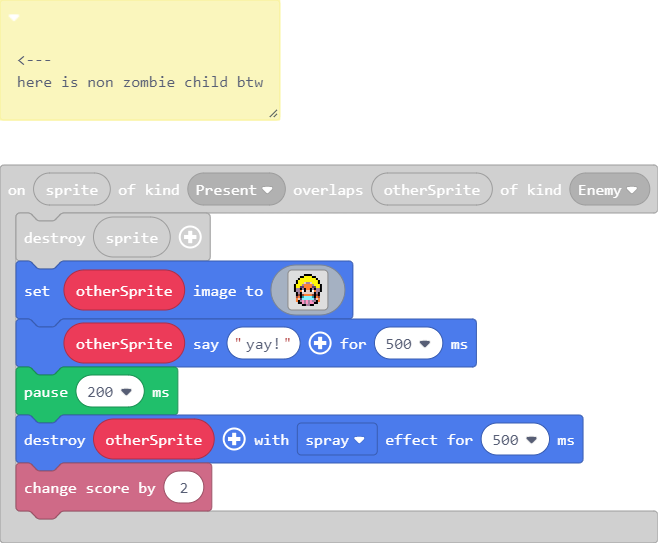
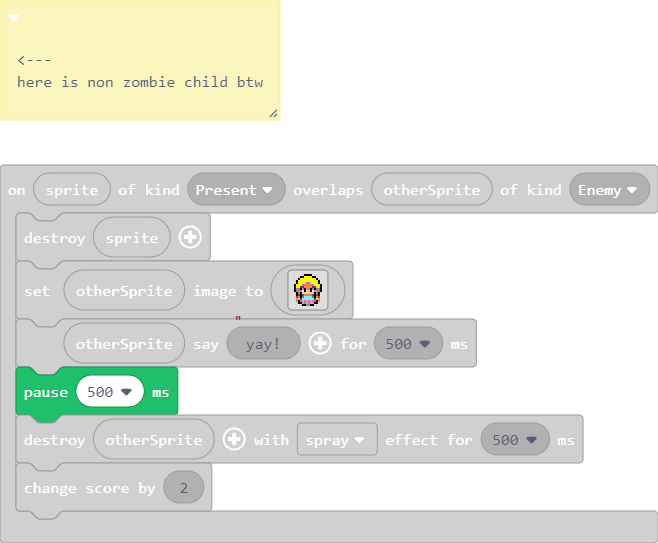
Update main.blocks, main.ts

Changed region(s): [[0.0, 0.7072, 0.9119, 0.9724], [0.0, 0.4715, 0.7295, 0.7072]]

diff --git a/main.ts b/main.ts
@@ -658,7 +658,7 @@ f b b 4 1 f d d f 1 4 b b f
 . . . . f f b b f f . . . . 
 `)
     otherSprite.say("yay!", 500)
-    pause(200)
+    pause(500)
     otherSprite.destroy()
     info.changeScoreBy(2)
 })
